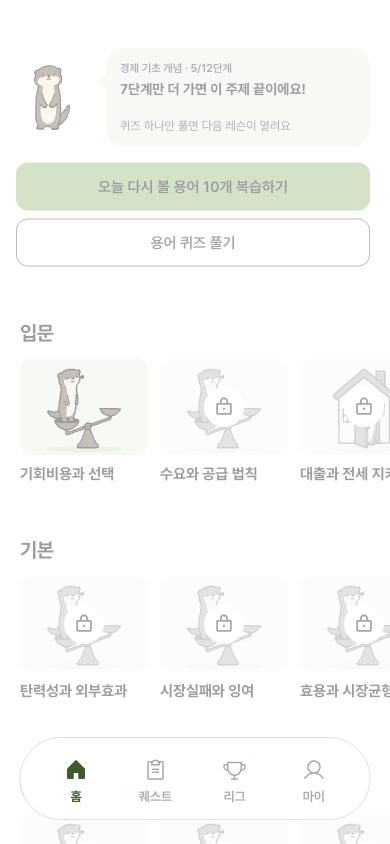
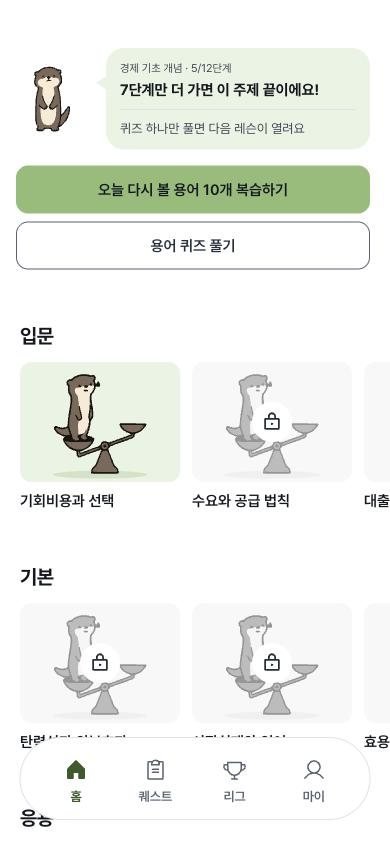
홈 코스 카드 그림 128x96에서 160x120으로, 리그 등급 아이콘 아래 등급 이름(현재 등급만 굵게)

diff --git a/src/index.css b/src/index.css
@@ -1204,6 +1204,8 @@ button.course-step-marker { cursor: pointer; }
 .league-tier-step[data-state='done'] .league-tier-node { color: var(--color-ink-2); }
 .league-tier-step[data-state='current'] .league-tier-node { color: var(--color-accent-foreground); }
 .league-tier-step[data-state='future'] .league-tier-node .stage-glyph { opacity: 1; filter: none; }
+.league-tier-name { color: var(--color-ink-3); font-size: var(--font-size-label); line-height: var(--line-height-body); white-space: nowrap; }
+.league-tier-step[data-state='current'] .league-tier-name { color: var(--color-ink); font-weight: var(--font-weight-bold); }
 .league-tier-xp { color: var(--color-ink-3); font-size: var(--font-size-caption); font-variant-numeric: tabular-nums; }
 
 /* 모노 카드: 그림자 없이 검정 1.5px 테두리로 나눈다 */
@@ -1277,7 +1279,7 @@ button.review-aux-button:disabled { color: var(--color-ink-3); }
 .my-page-menu button > div { padding-inline: 0; }
 /* 홈 주제 카드: 작은 주제 썸네일 + 제목·단계를 한 줄로. 주버튼보다 가볍게 */
 /* 코스 카드: 그림 폭을 코스 이름 길이(한 줄 7~8자) 정도로 */
-button.course-home-rail-card { width: 128px; flex-direction: column; align-items: stretch; gap: var(--space-2); }
+button.course-home-rail-card { width: 160px; flex-direction: column; align-items: stretch; gap: var(--space-2); }
 .course-home-rail-text { display: flex; min-width: 0; flex-direction: column; align-items: flex-start; gap: 2px; text-align: left; }
 .course-home-rail-card .course-home-rail-title { font-size: var(--font-size-body); }
 .course-home-rail-card .course-home-rail-meta { display: flex; align-items: center; gap: var(--space-1); }

diff --git a/src/pages/LeagueScreen.tsx b/src/pages/LeagueScreen.tsx
@@ -69,13 +69,14 @@ const LeagueScreen = () => {
           </div>
         </div>
 
-        {/* 티어 로드맵: 테두리·선 없이 등급 아이콘(원 안 56px)을 가로로 넘기고 처음에 현재 등급을 가운데로 둔다. 규칙 설명은 안내 시트(LeagueRules)에만 둔다 */}
+        {/* 티어 로드맵: 테두리·선 없이 등급 아이콘(원 안 56px)과 이름을 가로로 넘기고 처음에 현재 등급을 가운데로 둔다. 규칙 설명은 안내 시트(LeagueRules)에만 둔다 */}
         <ol ref={roadRef} className="league-tier-road anim-fade-up" aria-label="등급 단계" style={{ '--i': 1 } as React.CSSProperties}>
           {GROWTH_STAGES.map(s => {
             const state = s.id < stage.id ? 'done' : s.id === stage.id ? 'current' : 'future';
             return (
               <li key={s.id} className="league-tier-step" data-state={state} aria-label={s.name} aria-current={state === 'current' ? 'step' : undefined}>
                 <span className="league-tier-node" style={{ background: state === 'future' ? 'var(--color-neutral-soft)' : `var(--league-bg-${s.id})` }}><StageIcon id={s.id} size={56} locked={state === 'future'} /></span>
+                <span className="league-tier-name" aria-hidden="true">{s.name}</span>
               </li>
             );
           })}

diff --git a/src/pages/CourseScreen.tsx b/src/pages/CourseScreen.tsx
@@ -422,7 +422,7 @@ const CourseScreen = () => {
                     data-current={section.course.id === focus?.courseId || undefined}
                     onClick={() => navigate(`/course?topic=${topic.index}&course=${section.course.id}`)} aria-label={`${topic.category} ${name} 코스 열기, ${locked ? '잠김' : `${done}/${steps.length}단계 완료`}`}>
                     <span className="course-home-rail-thumb">
-                      <TopicThumb category={topic.category} size={128} height={96} />
+                      <TopicThumb category={topic.category} size={160} height={120} />
                       {locked && <span className="course-home-rail-lock"><LockKeyhole size={20} aria-hidden="true" /></span>}
                     </span>
                     <span className="course-home-rail-text">

diff --git a/DESIGN.md b/DESIGN.md
@@ -74,7 +74,7 @@
 
 **주제 썸네일(2026-11-04)**
 
-- 홈은 난이도마다 한 줄(입문·기본·응용·전문: 데이터 값 기초·중급·고급·심화의 화면 이름, `LEVEL_LABELS`)로, 그 난이도 코스 카드(128x96 주제 그림, 아래 코스 이름만 왼쪽 정렬, 잠긴 코스는 흐린 그림 + 자물쇠)를 학습 순서대로 가로로 둔다. 지금 학습 중인 난이도 줄은 그 코스로 가로 위치를 맞춘다.
+- 홈은 난이도마다 한 줄(입문·기본·응용·전문: 데이터 값 기초·중급·고급·심화의 화면 이름, `LEVEL_LABELS`)로, 그 난이도 코스 카드(160x120 주제 그림, 아래 코스 이름만 왼쪽 정렬, 잠긴 코스는 흐린 그림 + 자물쇠)를 학습 순서대로 가로로 둔다. 지금 학습 중인 난이도 줄은 그 코스로 가로 위치를 맞춘다.
 - 그림이 없는 주제는 회색 바탕에 주제 첫 글자를 둔다. 새 주제는 장면 일러스트로 추가한다(`docs/character/topics/`).
 - 카드는 그림자 없이 그림과 글자만 둔다. 기사 원문 사진은 언론사 저작물이라 쓰지 않는다.
 
@@ -242,7 +242,7 @@
 ### 리그 (`/league`)
 
 - 내 순위 카드와 승급 조건 문구는 두지 않는다. 규칙 설명(주간 순위·승급·강등·티어·XP)은 "안내" 시트(`LeagueRules`)에만 쓴다. 남은 기간은 TOP 10 제목 바로 옆 회색 뱃지 "D-n"(하루 안이면 "n시간 남음"). 등급 그림은 지나온·현재 등급만 등급 색 원, 아직 못 간 등급은 회색 원. 내가 10위 밖이면 목록 맨 아래에 내 행을 붙인다.
-- 등급 단계: 테두리·트랙 없이 104px 원 안 56px 등급 사물 아이콘(`public/league/icons`) 열 개를 가로로 넘긴다(칸 124px, 다음 칸이 살짝 보이게, 처음엔 현재 등급을 가운데로). 그림 아래 등급 이름은 두지 않는다. 지금과 지난 등급은 색 그림, 아직 못 간 등급은 회색 잠김본. 아래 한 줄로 승급 조건("이번 주 3위 안에 들면 다음 주 ○○ 리그로 올라가요", 지금 3위 안이면 "지금 순위를 지키면…").
+- 등급 단계: 테두리·트랙 없이 104px 원 안 56px 등급 사물 아이콘(`public/league/icons`) 열 개를 가로로 넘긴다(칸 124px, 다음 칸이 살짝 보이게, 처음엔 현재 등급을 가운데로). 아이콘 아래 등급 이름(13px, 현재 등급만 진한 굵은 글자, 나머지 회색). 지금과 지난 등급은 색 그림, 아직 못 간 등급은 회색 잠김본. 아래 한 줄로 승급 조건("이번 주 3위 안에 들면 다음 주 ○○ 리그로 올라가요", 지금 3위 안이면 "지금 순위를 지키면…").
 - TOP 10: 순위 목록 하나만 둔다(시상대는 같은 1~3위를 반복해서 뺐다). 1~3위는 금·은·동 원형 바탕 숫자, 내 행은 옅은 회색 면.
 
 ### 마이 (`/my`)
